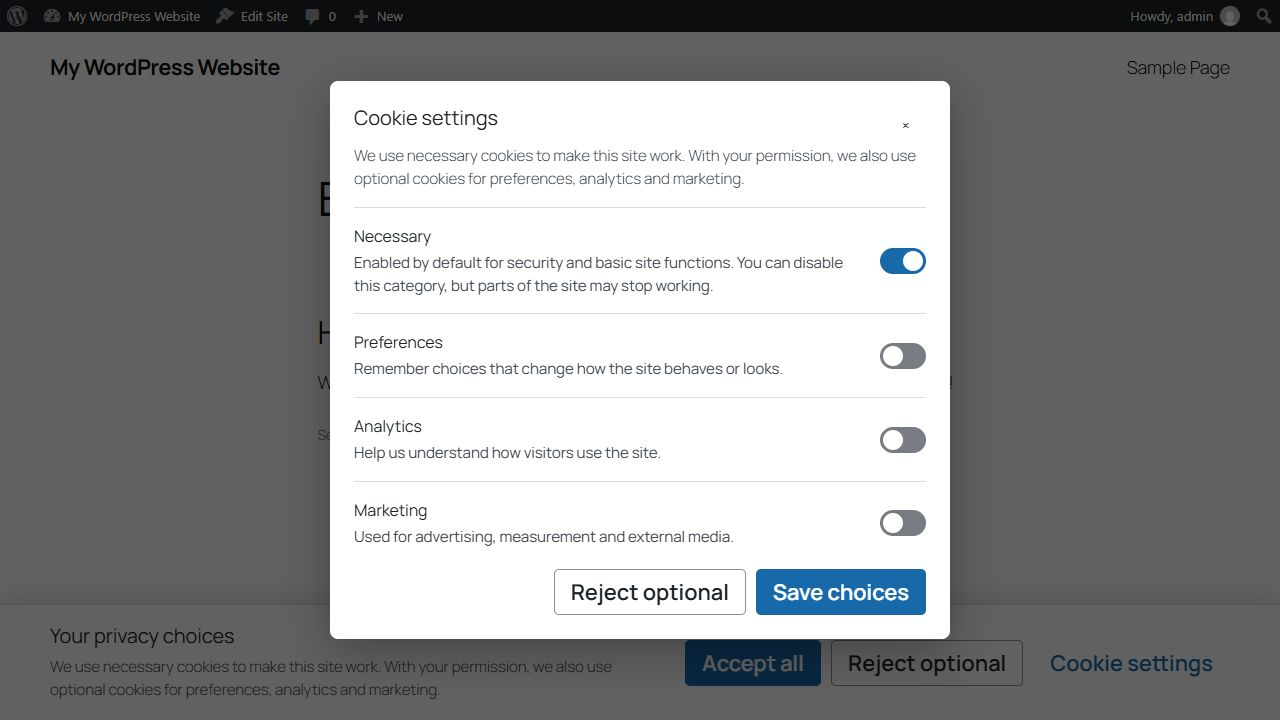
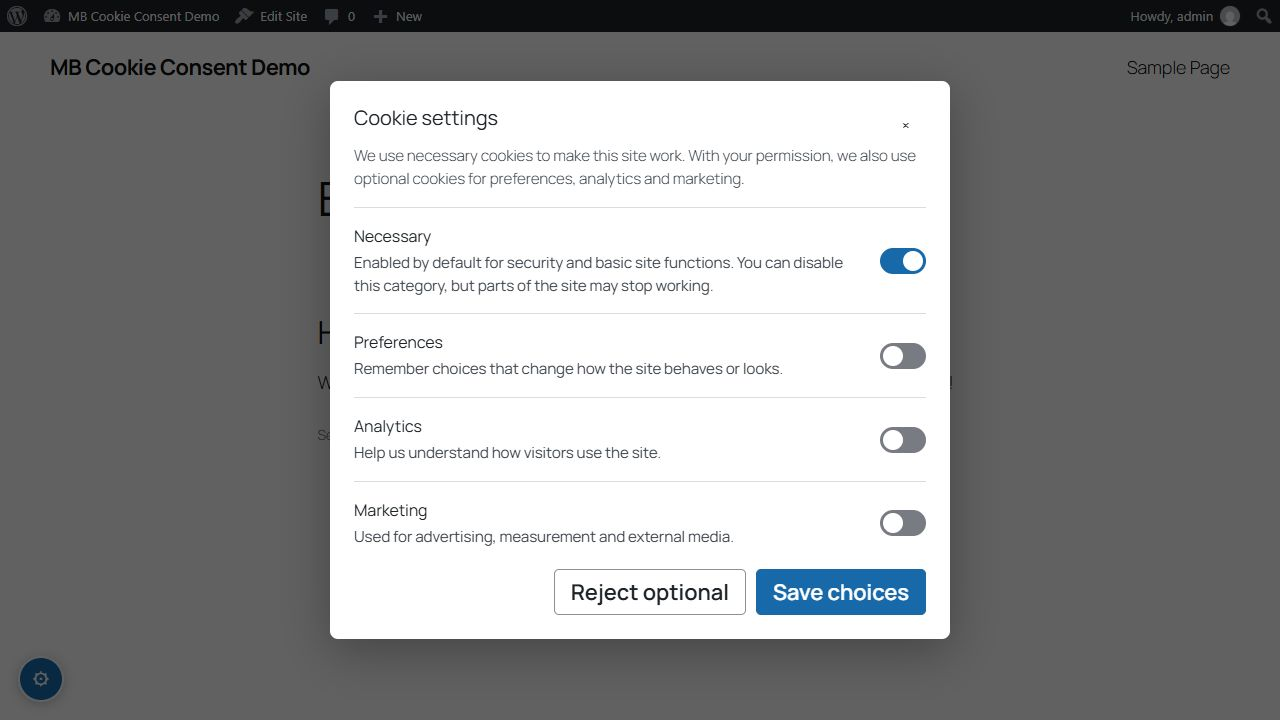
Refresh 1.2.0 WordPress screenshots

diff --git a/README.md b/README.md
@@ -144,13 +144,17 @@ Dozvoljene kategorije su `preferences`, `analytics` i `marketing`.
 
 ![English granular cookie settings](.wordpress-org/screenshot-2.png)
 
-### Administration settings in English
+### Administration settings and unified menu
 
 ![WordPress administration settings in English](.wordpress-org/screenshot-3.png)
 
-### Administratorska podešavanja na srpskom
+### Cookie inventory and editing
 
 ![WordPress administratorska podešavanja na srpskom](.wordpress-org/screenshot-4.png)
+
+### Manual scanner
+
+![Manual cookie scanner](.wordpress-org/screenshot-5.png)
 
 ## Changelog
 
